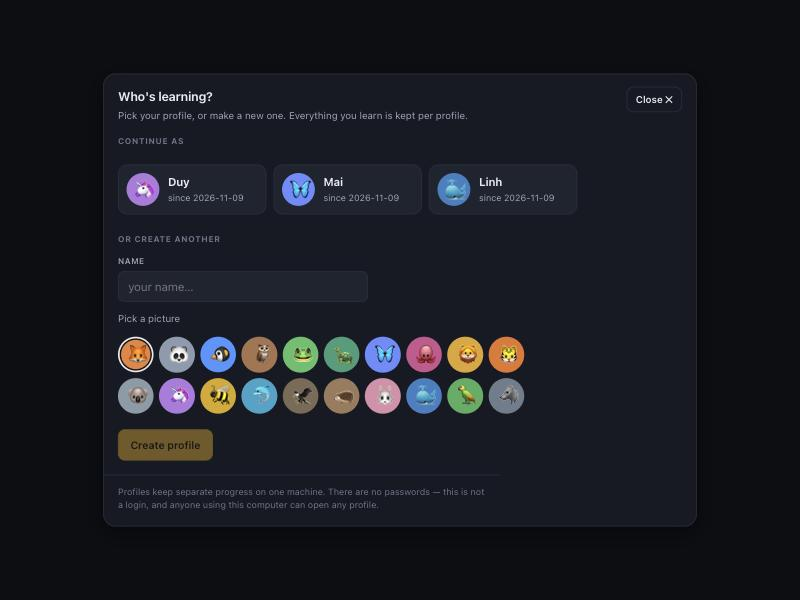
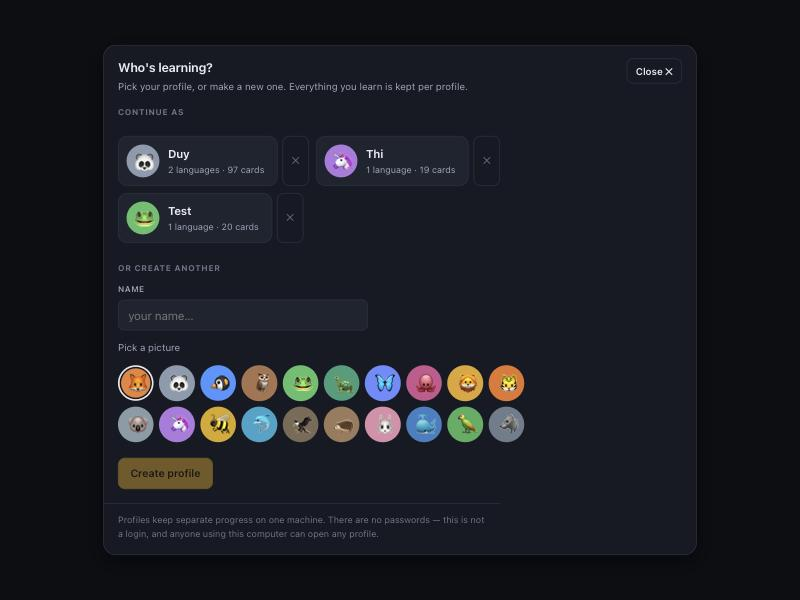
Add a delete button to each profile, behind a confirmation
A ✕ beside each profile in the "Who's learning?" panel deletes it along
with its sessions, cards and milestones.

Nothing here can be undone, so the confirmation is specific rather than
a generic "are you sure": it names what is about to go, counted from
the profile itself — "This permanently deletes 1 language, 20 cards in
play, 20 words learned." A profile with nothing in it says so instead,
so the warning stays proportionate.

Past 20 words learned there is a second step: type the profile name.
By that point there is enough in a profile that one stray click should
not be able to end it.

Profile rows now show what they hold ("2 languages · 97 cards") so the
stakes are visible before the ✕ is reached.

Deleting the profile you are signed in as drops you back to whichever
remains; deleting the last one returns the app to its first-run state.
The endpoint clears cards and sessions explicitly rather than trusting
the foreign keys, which only cascade while PRAGMA foreign_keys is on.

Tests at 184, covering the cascade, unknown and blank names, and that
other profiles are untouched. Verified in the browser that cancelling
deletes nothing, that a mistyped name deletes nothing, and that
confirming does.

diff --git a/static/app.js b/static/app.js
@@ -275,6 +275,9 @@
       ? "Who's learning?" : "Welcome — set up a profile";
 
     state.profiles.forEach(function (p) {
+      var row = document.createElement("div");
+      row.className = "who-row";
+
       var b = document.createElement("button");
       b.className = "who-card";
       b.style.setProperty("--av", p.avatar.colour);
@@ -282,9 +285,19 @@
         '<span class="who-card-av" style="background:' + p.avatar.colour + '">' +
           p.avatar.glyph + "</span>" +
         "<span><span class=\"who-card-name\">" + escapeHtml(p.name) + "</span>" +
-        '<span class="who-card-meta">since ' + p.created_at + "</span></span>";
+        '<span class="who-card-meta">' + describeProfile(p) + "</span></span>";
       b.onclick = function () { chooseProfile(p.name); };
-      list.appendChild(b);
+      row.appendChild(b);
+
+      var del = document.createElement("button");
+      del.className = "who-del";
+      del.innerHTML = "&#10005;";
+      del.title = "Delete " + p.name;
+      del.setAttribute("aria-label", "Delete profile " + p.name);
+      del.onclick = function (ev) { ev.stopPropagation(); deleteProfile(p); };
+      row.appendChild(del);
+
+      list.appendChild(row);
     });
 
     var grid = $("av-grid");
@@ -299,6 +312,52 @@
       grid.appendChild(b);
     });
     validateWhoName();
+  }
+
+  function describeProfile(p) {
+    if (!p.sessions) return "nothing learned yet";
+    var bits = [p.sessions + (p.sessions === 1 ? " language" : " languages")];
+    if (p.cards) bits.push(p.cards + " cards");
+    if (p.learned) bits.push(p.learned + " learned");
+    return bits.join(" · ");
+  }
+
+  function deleteProfile(p) {
+    // Spell out exactly what goes, because nothing here can be undone.
+    var loses = [];
+    if (p.sessions) loses.push(p.sessions + (p.sessions === 1 ? " language" : " languages"));
+    if (p.cards) loses.push(p.cards + " card" + (p.cards === 1 ? "" : "s") + " in play");
+    if (p.learned) loses.push(p.learned + " word" + (p.learned === 1 ? "" : "s") + " learned");
+
+    var msg = "Delete the profile \u201C" + p.name + "\u201D?\n\n";
+    msg += loses.length
+      ? "This permanently deletes " + loses.join(", ") + ".\n\nThis cannot be undone."
+      : "It has no progress yet, so nothing is lost.";
+    if (!confirm(msg)) return;
+
+    // A profile with real progress is worth a second, deliberate step.
+    if (p.learned >= 20) {
+      var typed = prompt("\u201C" + p.name + "\u201D has " + p.learned +
+        " words learned.\n\nType the profile name to confirm deletion:");
+      if (typed === null) return;
+      if (typed.trim() !== p.name) { toast("Name did not match — nothing deleted."); return; }
+    }
+
+    api("/api/profile/delete", { method: "POST", body: { name: p.name } })
+      .then(function (st) {
+        if (profile === p.name) {
+          profile = st.profile ? st.profile.name : null;
+          sessionId = null;
+          if (profile) localStorage.setItem("leitner.profile", profile);
+          else localStorage.removeItem("leitner.profile");
+          localStorage.removeItem("leitner.session");
+        }
+        render(st);
+        renderVoiceOptions();
+        toast("Deleted \u201C" + p.name + "\u201D.");
+        if (!st.profile) { renderWho(); return; }
+        renderWho();
+      }).catch(function (e) { toast(e.message); });
   }
 
   function escapeHtml(t) {

diff --git a/static/style.css b/static/style.css
@@ -493,3 +493,17 @@ output { font-family: var(--mono); color: var(--text); }
 .box-cap { font-size: 13px; font-weight: 600; color: var(--text-faint); }
 .box-count-full { color: var(--bad); }
 .box-count-full .box-cap { color: var(--bad); opacity: .7; }
+
+/* delete a profile */
+.who-row { display: flex; align-items: stretch; gap: 6px; }
+.who-row .who-card { flex: 1; }
+.who-del {
+  flex: none; width: 34px; border-radius: 9px; cursor: pointer;
+  background: transparent; border: 1px solid var(--line);
+  color: var(--text-faint); font-size: 13px; line-height: 1;
+  transition: color .15s ease, border-color .15s ease, background .15s ease;
+}
+.who-del:hover {
+  color: var(--bad); border-color: var(--bad);
+  background: color-mix(in srgb, var(--bad) 12%, transparent);
+}

diff --git a/app.py b/app.py
@@ -386,9 +386,20 @@ def get_profile(name=None):
 
 
 def profile_json(row):
+    pid = row["id"]
+    stats = db().execute(
+        "SELECT (SELECT COUNT(*) FROM session WHERE profile_id = ?) AS sessions,"
+        "       (SELECT COUNT(*) FROM card c JOIN session s ON s.id = c.session_id"
+        "          WHERE s.profile_id = ? AND c.retired = 0) AS cards,"
+        "       (SELECT COUNT(*) FROM card c JOIN session s ON s.id = c.session_id"
+        "          WHERE s.profile_id = ? AND c.learned_at IS NOT NULL) AS learned",
+        (pid, pid, pid)).fetchone()
     return {"name": row["name"],
             "avatar": avatar_json(row["avatar"] if "avatar" in row.keys() else 0),
-            "created_at": (row["created_at"] or "")[:10]}
+            "created_at": (row["created_at"] or "")[:10],
+            "sessions": stats["sessions"],
+            "cards": stats["cards"],
+            "learned": stats["learned"]}
 
 
 def all_profiles():
@@ -651,6 +662,35 @@ def api_profile():
         conn.commit()
     prof = get_profile(name)
     return jsonify(build_state(prof, get_session(prof)))
+
+
+@app.route("/api/profile/delete", methods=["POST"])
+def api_profile_delete():
+    """Delete a profile and everything it has learned.
+
+    The confirmation lives in the UI, which spells out what is about to go.
+    There is no undo: the sessions and cards go with it, by foreign key.
+    """
+    name = str(body().get("name", "")).strip()
+    if not name:
+        return jsonify({"error": "name required"}), 400
+    conn = db()
+    row = conn.execute("SELECT * FROM profile WHERE name = ?", (name,)).fetchone()
+    if row is None:
+        return jsonify({"error": "No profile called %s." % name}), 404
+
+    gone = profile_json(row)
+    # belt and braces: the schema cascades, but only while foreign keys are on
+    conn.execute("DELETE FROM card WHERE session_id IN"
+                 " (SELECT id FROM session WHERE profile_id = ?)", (row["id"],))
+    conn.execute("DELETE FROM session WHERE profile_id = ?", (row["id"],))
+    conn.execute("DELETE FROM profile WHERE id = ?", (row["id"],))
+    conn.commit()
+
+    prof = get_profile()          # the only one left, or None
+    out = build_state(prof, get_session(prof) if prof else None)
+    out["deleted"] = gone
+    return jsonify(out)
 
 
 @app.route("/api/profile/exists")

diff --git a/tests/test_rules.py b/tests/test_rules.py
@@ -69,6 +69,42 @@ check("profile names round-trip",
 
 PROF = "Duy"
 
+print("\n== deleting a profile ==")
+st = j(c.post("/api/profile", json={"name": "Temp", "avatar": 5}))
+tsid = j(c.post("/api/session", json={"profile": "Temp", "learn": "es", "know": "en"}))["session"]["id"]
+j(c.post("/api/new_deck", json={"profile": "Temp", "session": tsid}))
+st = j(c.get("/api/state?profile=Temp"))
+temp = [p for p in st["profiles"] if p["name"] == "Temp"][0]
+check("a profile reports what a delete would destroy",
+      temp["sessions"] == 1 and temp["cards"] == 20 and temp["learned"] == 0, temp)
+
+check("deleting an unknown profile is refused",
+      c.post("/api/profile/delete", json={"name": "ghost"}).status_code == 404)
+check("deleting a blank name is refused",
+      c.post("/api/profile/delete", json={"name": "  "}).status_code == 400)
+
+before = {p["name"] for p in st["profiles"]}
+res = j(c.post("/api/profile/delete", json={"name": "Temp"}))
+check("the deleted profile is gone",
+      {p["name"] for p in res["profiles"]} == before - {"Temp"},
+      [p["name"] for p in res["profiles"]])
+check("the response says what was removed",
+      res["deleted"]["name"] == "Temp" and res["deleted"]["cards"] == 20,
+      res["deleted"])
+check("its session went with it",
+      c.get("/api/state?profile=Temp").get_json()["profile"] is None)
+import sqlite3 as _sq
+_con = _sq.connect(A.DB_PATH)
+_orphan_s = _con.execute(
+    "SELECT COUNT(*) FROM session WHERE profile_id NOT IN (SELECT id FROM profile)").fetchone()[0]
+_orphan_c = _con.execute(
+    "SELECT COUNT(*) FROM card WHERE session_id NOT IN (SELECT id FROM session)").fetchone()[0]
+_con.close()
+check("orphan sessions: none", _orphan_s == 0, _orphan_s)
+check("orphan cards: none", _orphan_c == 0, _orphan_c)
+check("other profiles are untouched",
+      j(c.get("/api/state?profile=Duy"))["profile"]["name"] == "Duy")
+
 print("\n== concept table ==")
 check("concepts loaded", len(A.CONCEPTS) > 5000, len(A.CONCEPTS))
 for a, b in [("es", "en"), ("en", "es"), ("vi", "en"), ("zh", "en"),

diff --git a/README.md b/README.md
@@ -327,8 +327,14 @@ Everything lives in `data/leitner.db` (SQLite): every session, which box each ca
 progress, right/wrong counts, retired cards, milestone dates, and how far into the word list
 each session has drawn. It survives reloads, restarts and switching browsers.
 
-The avatar button in the header switches profile; **+ create another** is in the same panel.
-Each profile has its own independent set of sessions.
+The avatar button in the header switches profile; creating and deleting live in the same
+panel. Each profile has its own independent set of sessions.
+
+**Deleting a profile removes everything it has learned** — its sessions, its cards and its
+milestones — and there is no undo. So the ✕ beside a profile asks first, and names exactly
+what is about to go ("1 language, 20 cards in play, 20 words learned"). Past 20 words learned
+it also asks you to type the profile name, because by then there is enough in it to be worth
+a deliberate second step.
 **Reset this learning session** under Audio & settings wipes one language pair back to word 1;
 your other languages and the word table are untouched.
 
@@ -341,7 +347,7 @@ and never gets committed.
 
 | Path | What |
 |---|---|
-| `app.py` | Flask server, SQLite schema, profiles, sessions, box rules, per-language grading, placement test, levels and milestones, 15 JSON endpoints |
+| `app.py` | Flask server, SQLite schema, profiles, sessions, box rules, per-language grading, placement test, levels and milestones, 17 JSON endpoints |
 | `build_concepts.py` | Builds `data/concepts.json` from the curated core plus the four sources |
 | `data/core_concepts.tsv` | The 365 hand-written concepts — edit this to fix or add words |
 | `data/concepts.json` | 17,322 generated concepts (committed, so no build is needed) |
@@ -374,12 +380,12 @@ LANGUAGES = {...}       # code -> display name, native name, speech-synthesis ta
 python3 tests/test_rules.py
 ```
 
-175 checks against a throwaway database: the concept table and every language pair, grading in
+184 checks against a throwaway database: the concept table and every language pair, grading in
 all four languages (including Vietnamese tone-stripping and Mandarin pinyin), session creation
 and isolation, the Learn gate, promotion and demotion, the new-deck gate, the per-box limit,
 the learned counter, the per-box limit, proficiency levels, milestone unlocking and dates, the text sent to
 audio, the placement test's bands and estimator, manual level setting, deck drawing after the
-start point moves, profile creation and isolation, retiring, and reset. No network, no fixtures to install.
+start point moves, profile creation, deletion and isolation, retiring, and reset. No network, no fixtures to install.
 
 ---
 
